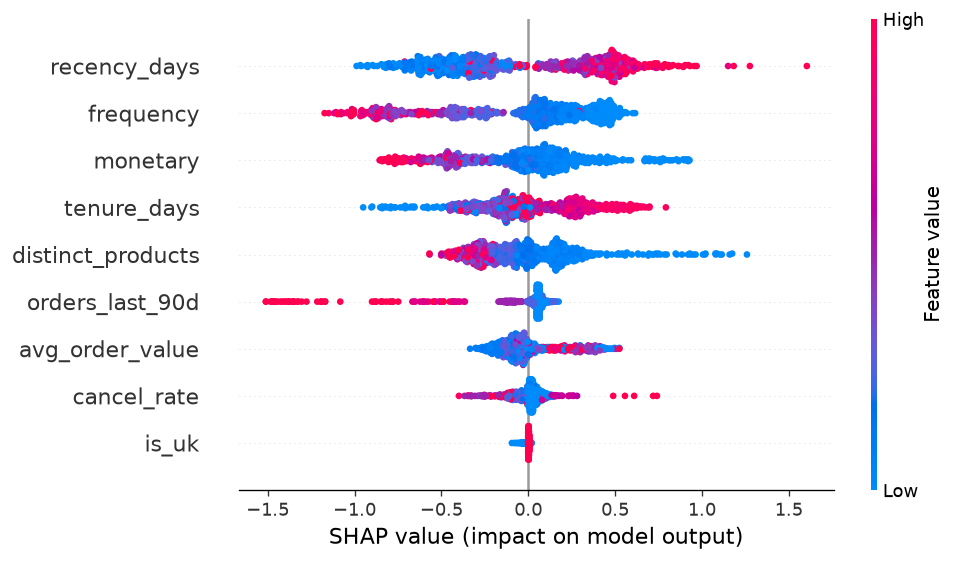
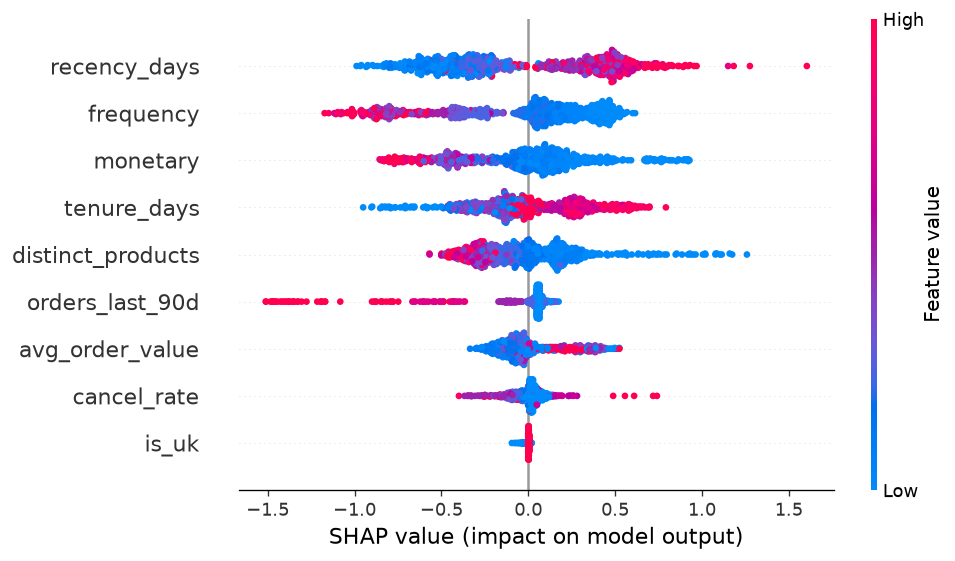
Save model metrics, confusion matrix and SHAP importance to Postgres
The dashboard reads them to show how good the model is and what it relies on.

diff --git a/src/train_model.py b/src/train_model.py
@@ -20,9 +20,21 @@ from sklearn.preprocessing import FunctionTransformer, StandardScaler
 from xgboost import XGBClassifier
 
 from build_features import FEATURE_COLUMNS, FEATURES_PATH
+from db import get_engine
 
 MODEL_PATH = Path("models/churn_model.joblib")
 TEST_PATH = Path("data/processed/test_set.csv")
+
+# Names shown in the Power BI "Model" page, in the order they are displayed
+MODEL_LABELS = {"logistic_regression": "Logistic regression", "xgboost": "XGBoost"}
+METRIC_LABELS = {
+    "cv_roc_auc": "CV ROC-AUC",
+    "test_roc_auc": "Test ROC-AUC",
+    "test_pr_auc": "Test PR-AUC",
+    "test_precision": "Precision",
+    "test_recall": "Recall",
+    "test_f1": "F1",
+}
 
 mlflow.set_tracking_uri("sqlite:///mlflow.db")
 mlflow.set_experiment("churn-prediction")
@@ -71,6 +83,30 @@ def save_confusion_matrix(model, X_test, y_test, name):
     return path
 
 
+def save_results_for_dashboard(results, best_name, X_test, y_test):
+    """Write both models' metrics and the winner's confusion matrix to Postgres."""
+    rows = []
+    for name, (model, metrics) in results.items():
+        for order, (key, label) in enumerate(METRIC_LABELS.items(), start=1):
+            rows.append({"model": MODEL_LABELS[name], "metric": label, "metric_order": order,
+                         "value": metrics[key], "is_selected": int(name == best_name)})
+
+    best_model = results[best_name][0]
+    predictions = pd.Series(best_model.predict(X_test), index=y_test.index)
+    confusion = pd.DataFrame({
+        "actual": y_test.map({0: "Stayed", 1: "Churned"}),
+        "predicted": predictions.map({0: "Predicted stay", 1: "Predicted churn"}),
+    }).value_counts().rename("customers").reset_index()
+    # Order columns so Power BI shows "stay" before "churn" instead of alphabetical
+    confusion["actual_order"] = confusion["actual"].map({"Stayed": 1, "Churned": 2})
+    confusion["predicted_order"] = confusion["predicted"].map({"Predicted stay": 1, "Predicted churn": 2})
+
+    engine = get_engine()
+    pd.DataFrame(rows).to_sql("model_metrics", engine, if_exists="replace", index=False)
+    confusion.to_sql("confusion_matrix", engine, if_exists="replace", index=False)
+    print("Saved tables model_metrics and confusion_matrix")
+
+
 def main():
     data = pd.read_csv(FEATURES_PATH, index_col="customer_id")
     X = data[FEATURE_COLUMNS].astype(float)  # the API also receives floats
@@ -111,6 +147,7 @@ def main():
     MODEL_PATH.parent.mkdir(exist_ok=True)
     joblib.dump(results[best_name][0], MODEL_PATH)
     print(f"Best model: {best_name}. Saved to {MODEL_PATH}")
+    save_results_for_dashboard(results, best_name, X_test, y_test)
 
 
 if __name__ == "__main__":

diff --git a/src/explain_model.py b/src/explain_model.py
@@ -1,10 +1,12 @@
 """Explain the churn model with SHAP: which features push a customer to churn."""
 import joblib
 import matplotlib.pyplot as plt
+import numpy as np
 import pandas as pd
 import shap
 
 from build_features import FEATURE_COLUMNS
+from db import get_engine
 from train_model import MODEL_PATH, TEST_PATH
 
 FIGURES = "reports/figures"
@@ -40,6 +42,14 @@ def main():
     save_current_figure("shap_waterfall_one_customer.png")
 
     print(f"Saved SHAP plots to {FIGURES}/")
+
+    # Same numbers as the bar plot, saved for the Power BI "Model" page
+    importance = pd.DataFrame({
+        "feature": FEATURE_COLUMNS,
+        "mean_abs_shap": np.abs(shap_values.values).mean(axis=0),
+    })
+    importance.to_sql("feature_importance", get_engine(), if_exists="replace", index=False)
+    print("Saved table feature_importance")
 
 
 if __name__ == "__main__":
